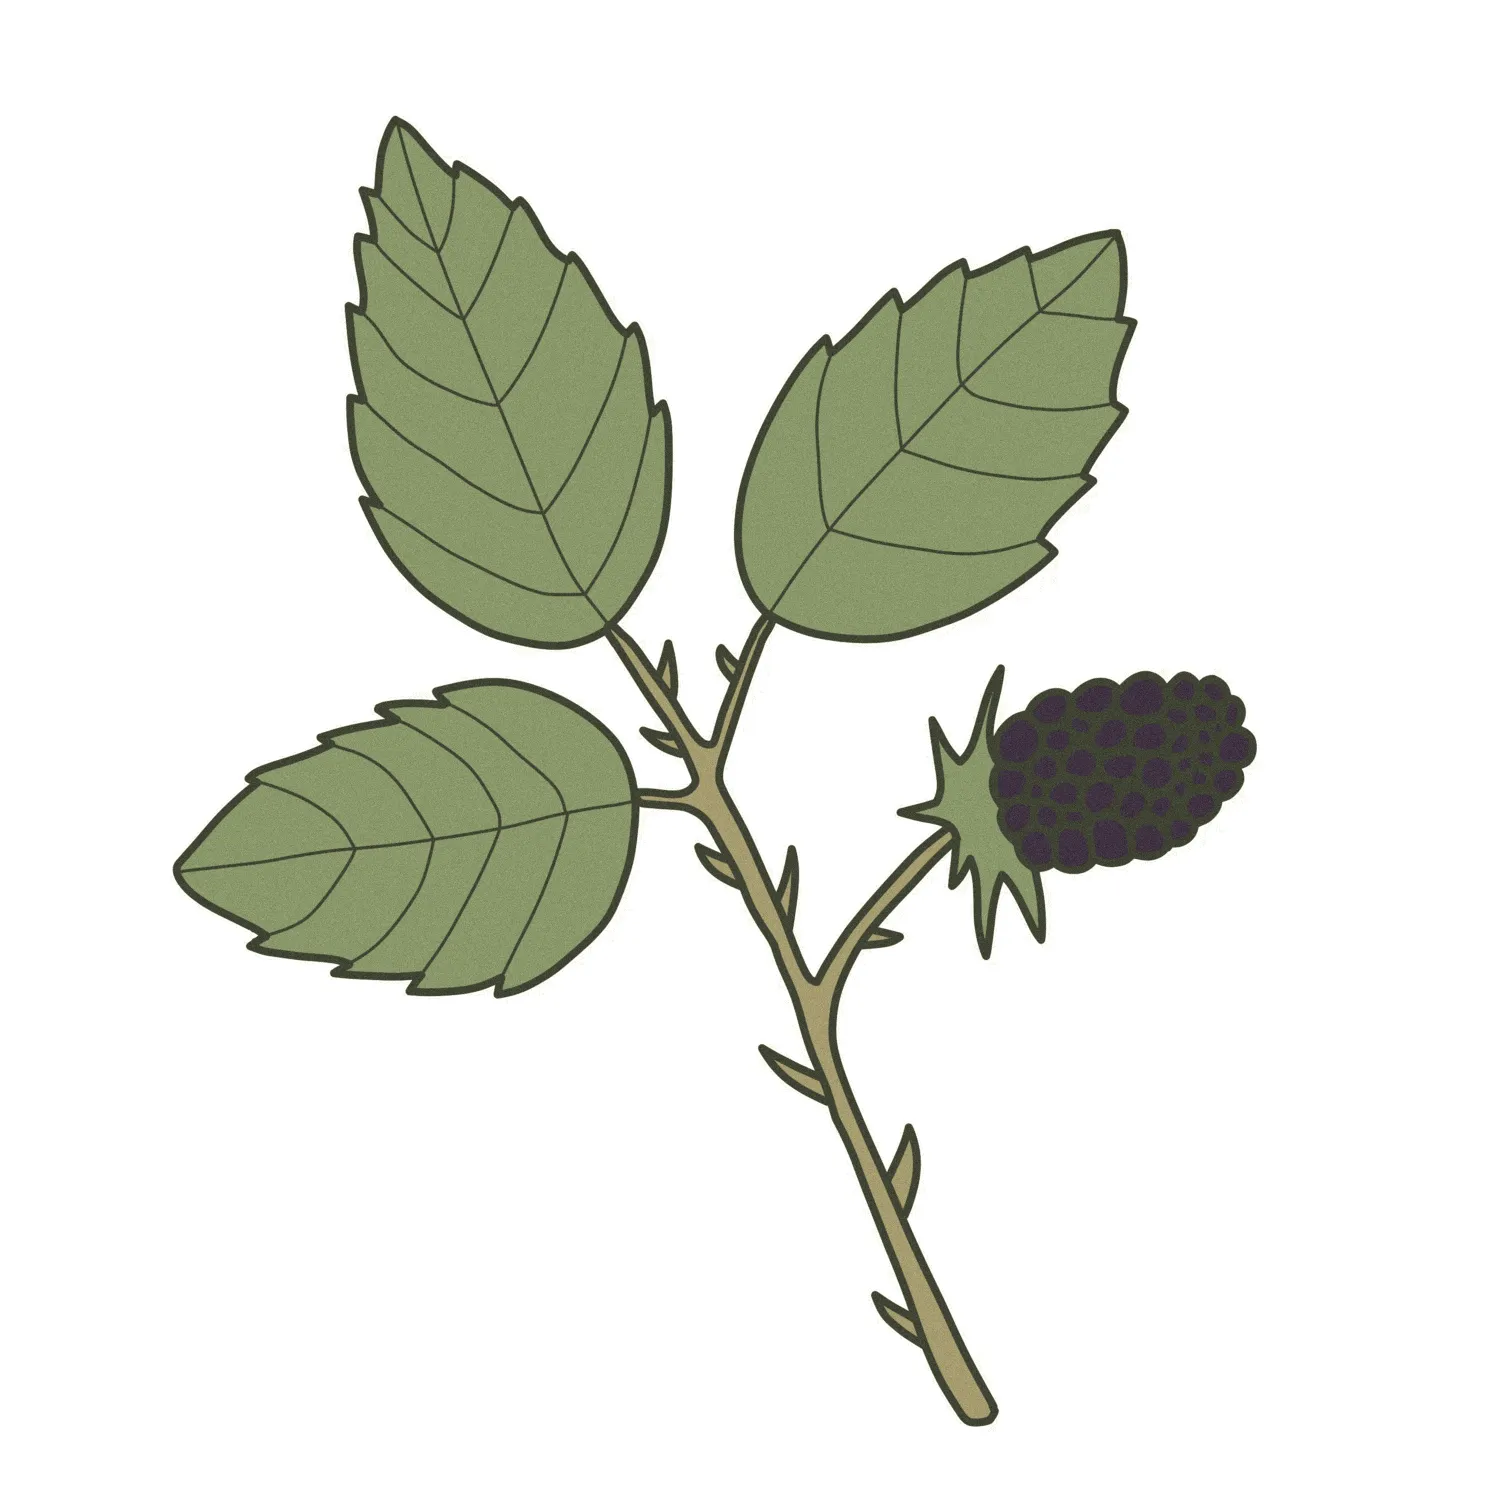
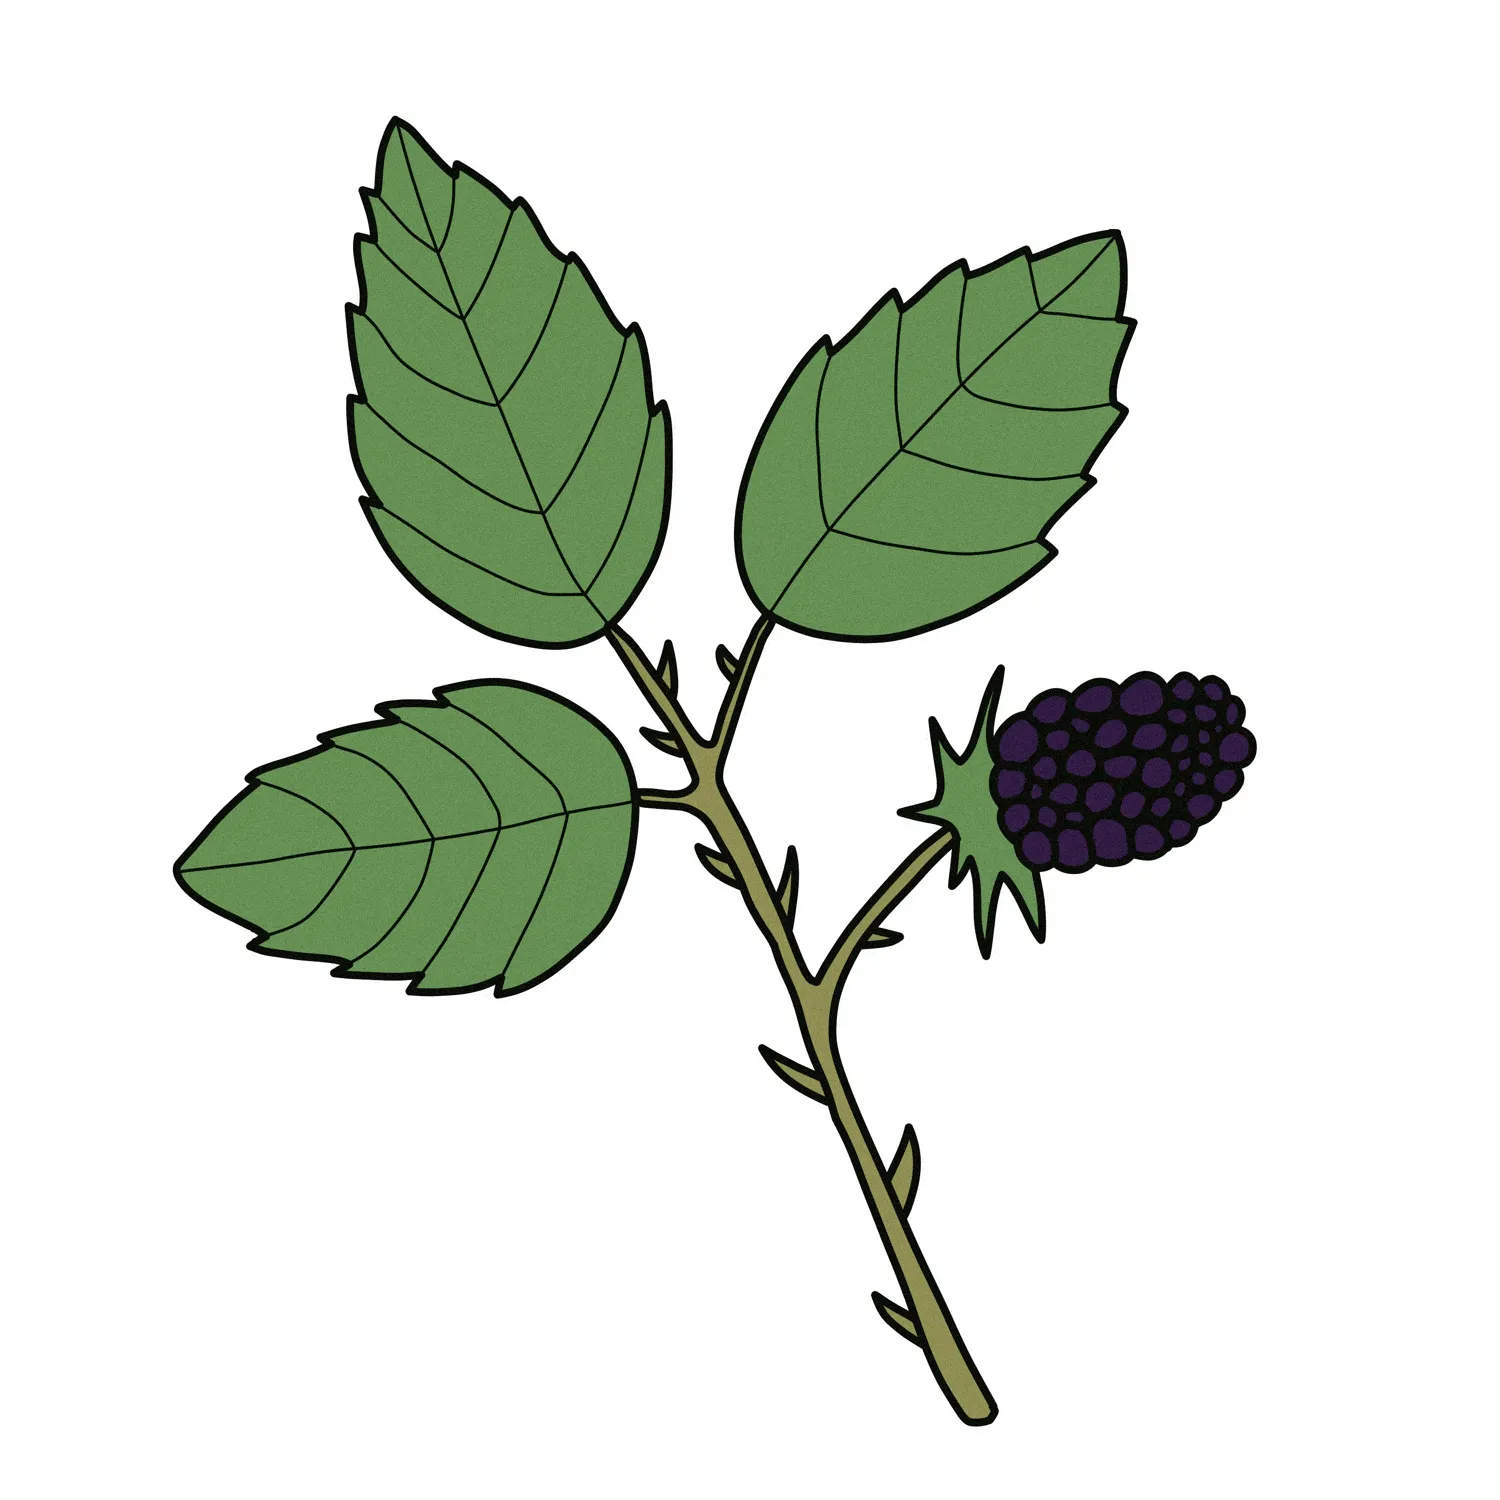
Update food guide from proofread

Changed region(s): [[0.1227, 0.0613, 0.8587, 0.9507]]

diff --git a/app/src/main/res/raw/guide_survival_chapter_food.md b/app/src/main/res/raw/guide_survival_chapter_food.md
@@ -67,7 +67,7 @@ If you are in a survival situation, ration your food to make it last longer. Eat
 ### Starvation
 <!-- K: starvation -->
 
-Starvation occurs when the body does not receive enough nutrients to function correctly. Symptoms include loss of body fat, difficulty breathing, feeling colder, fatigue, and increased healing times.
+Starvation occurs when the body does not receive enough nutrients to function correctly. Symptoms include loss of body fat, difficulty breathing, feeling colder, fatigue, and increased healing times. You are not likely to experience this unless you are going more than a week or two without food.
 
 ## Plants and mushrooms
 <!-- K: plant, mushroom, seaweed, weeds, green, fungus, berries -->
@@ -78,7 +78,11 @@ Plants typically have fewer calories than animals but can be easier to obtain if
 ### Foraging
 <!-- K: forage, identify, edible, inedible, poison, toxic, sap, safe -->
 
-The safest plant to forage is aggregate berries, such as raspberries and blackberries, since they have a distinctive look and are generally edible. Nuts and seeds are higher in calories than leafy greens, but some nuts, such as acorns, require multiple batches of boiling. Also, just because you see an animal eating a plant doesn't mean it is safe for human consumption. Never eat a plant you aren't certain is edible; even if you are certain, only eat a small amount and be on the lookout for side effects.
+The safest plants to forage are aggregate berries, such as raspberries and blackberries, since they have a distinctive look and are generally edible. Nuts and seeds are higher in calories than leafy greens, but some nuts, such as acorns, require multiple rounds of boiling to remove bitterness. Also, just because you see an animal eating a plant doesn't mean it is safe for human consumption. Never eat a plant you aren't certain is edible; even if you are certain, only eat a small amount and be on the lookout for side effects.
+
+Here's an example of what an aggregate berry looks like (brambles):
+
+![](file:///android_asset/field_guide/brambles.webp)
 
 **The following should be avoided as the risk isn't worth the calories:**
 - Mushrooms
@@ -178,7 +182,7 @@ Traps are a passive way to catch small fish or crustaceans with little effort re
 
 You can construct a bottle fish trap by cutting off the cap and top quarter of a spare water bottle. Bait the trap with food and use a small rock to weigh it down. Place the top inverted into the rest of the bottle and place it in shallow water. If needed, you can tie a string to the bottle to allow for easy access.
 
-Alternatively, you can construct an M-shaped funnel trap by hammering sticks into the water to form a small entrance and walls. This can be built using the shore as a back wall to reduce effort. Small fish will swim into the trap and be unable to find their way out.
+Alternatively, you can construct an M-shaped funnel trap by hammering sticks into the bottom of the stream or other shallow water to form a small entrance and walls. This can be built using the shore as a back wall to reduce effort. Small fish will swim into the trap and be unable to find their way out.
 
 ![](file:///android_asset/survival_guide/fish_trap_funnel.webp)
 
@@ -189,7 +193,7 @@ Alternatively, you can construct an M-shaped funnel trap by hammering sticks int
 <!-- K: prepare, kill, clean, gut, fillet, cook, boil, roast, bake -->
 
 1. Once you catch a fish, bring it away from the shoreline. Do not hold or place it near the water before killing it, as it may flop back in.
-2. Stun the fish by hitting it hard on the head with a club or rock. Then use a knife to cut the gills or pierce the brain to ensure it is dead.
+2. Stun the fish by hitting it hard on the head (top of the head, right behind the eyes) with a club or rock. Then use a knife to cut the gills or pierce the brain to ensure it is dead.
 3. (Optional) Remove scales by scraping them off with a knife (tail to head).
 4. Cut open the belly and remove the entrails. You can also cut off the head and tail to make this easier.
 5. (Optional) Cut the fish into usable pieces or fillet it.
@@ -288,7 +292,7 @@ This guide does not cover the preparation of large mammals, as they are challeng
 <!-- K: cook -->
 <!-- S: To avoid getting sick, boil, roast, or bake most foods. This will require you to start a fire or have a portable stove. -->
 
-Do not try to preserve the food you catch; just cook and eat it.
+Do not try to preserve the food you catch; just cook and eat it. If possible, prepare, cook, and consume your feed some distance downwind of your shelter to avoid attracting animals to your camp.
 
 ### Stoves
 <!-- K: stove -->
@@ -298,12 +302,12 @@ Portable stoves are convenient ways to cook food. They can be fueled by wood, al
 ### Boiling
 <!-- K: boil, container -->
 
-Boiling preserves the most nutrients in food and is the safest cooking method. A metal container filled with water can be suspended over a fire or placed onto hot coals. See the Water chapter for more information on boiling water.
+Boiling preserves the most nutrients in food and is the safest cooking method. A metal container filled with water can be suspended over a fire or placed onto hot coals. Drinking the broth once it is cool enough will give you more nutrients. See the Water chapter for more information on boiling water.
 
 ### Roasting
 <!-- K: roast -->
 
-Roasting is a quick and easy cooking method, but the food is less nutritious. You can roast food on a stick over a fire or place it on hot coals.
+Roasting is a quick and easy cooking method, but the food is less nutritious. You can roast food on a stick over a fire or place it over hot coals or on dry rocks heated by the fire.
 
 ### Baking
 <!-- K: bake -->
@@ -324,7 +328,7 @@ You may need to protect your food from animals. Here are some methods to keep yo
 ### Bear bags
 <!-- K: bag, bear -->
 
-A bear bag is a bag of food hoisted into a tree to keep it out of reach of bears and other animals. Find a tree with a branch about 20 feet (6 meters) off the ground and thick enough to support the weight of your food at about 10 feet (3 meters) from the trunk.
+A bear bag is a bag of food hoisted into a tree to keep it out of reach of bears and other animals. Find a tree with a branch about 20 feet (6 meters) off the ground and thick enough to support the weight of your food at about 10 feet (3 meters) from the trunk. This tree should be 20-70 yards/meters downwind from your shelter.
 
 1. Place food in a bag.
 2. Tie a rope to the bag.
@@ -340,3 +344,5 @@ See the Shelter chapter for details on how to tie knots.
 <!-- K: canister, box, bear -->
 
 A bear canister is a rigid plastic container used to store food. It is bear-proof and can be left on the ground. Some campsites may provide a bear box, a large metal box used to store food.
+
+Ideally, the location where you leave this container should be 20–70 yards/meters downwind from your shelter. You may find tooth or claw marks on the canister in the morning, and it may be some distance from where you left it. Using brightly colored stickers on the outside may help you find it.
